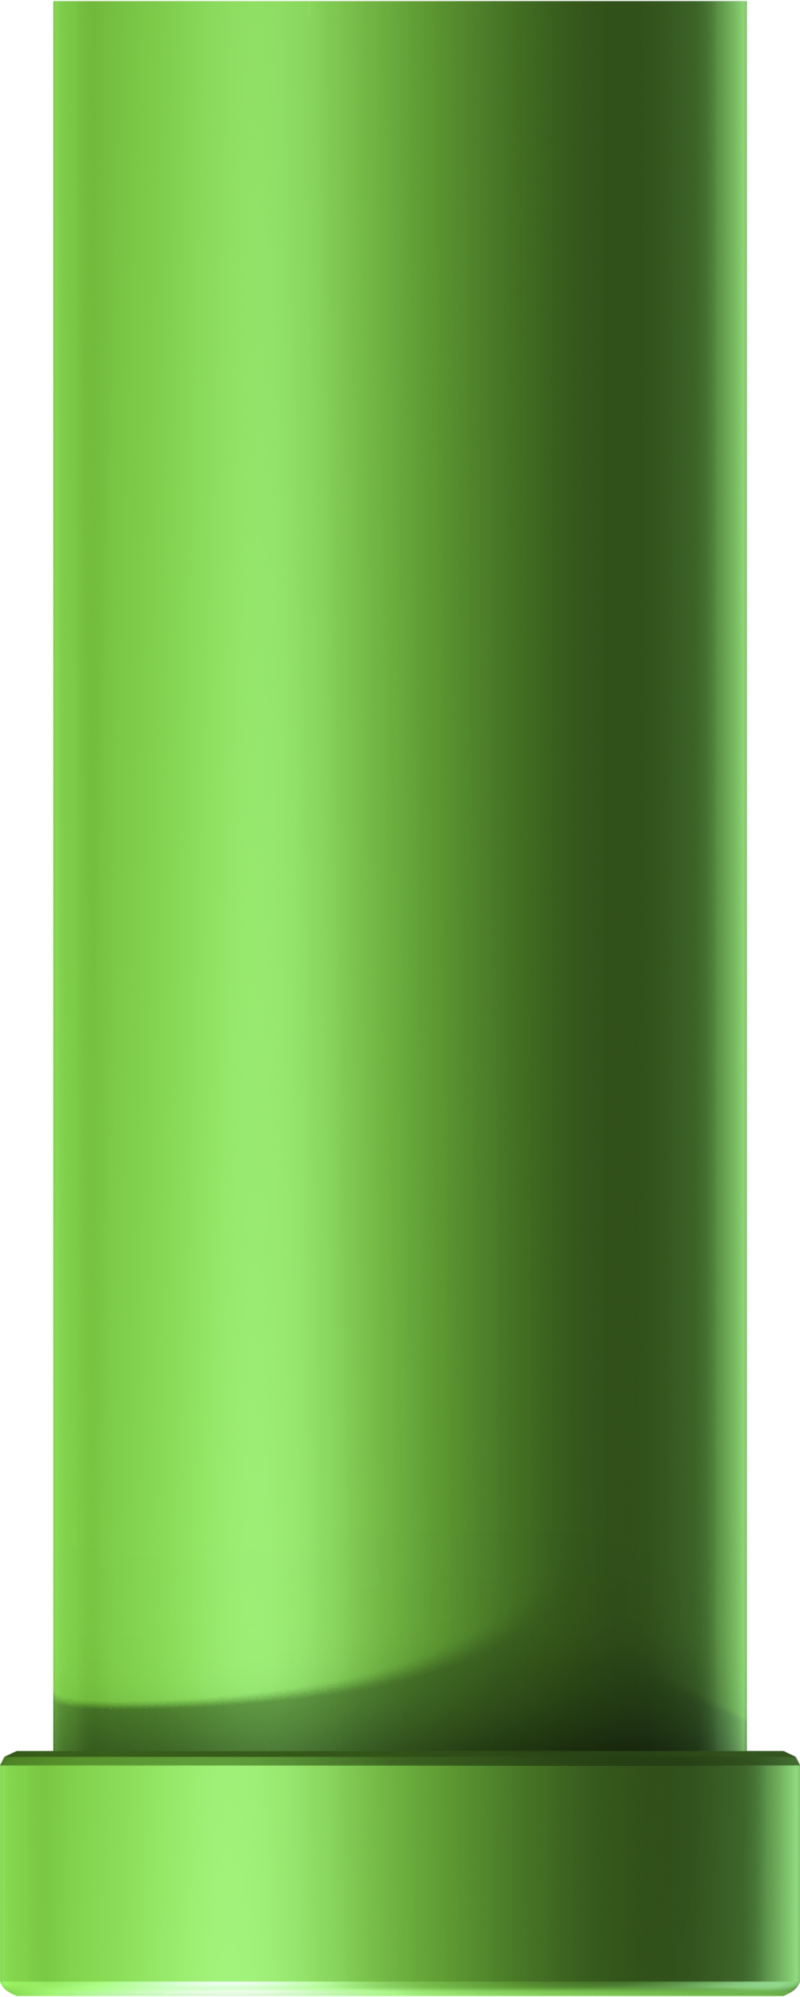
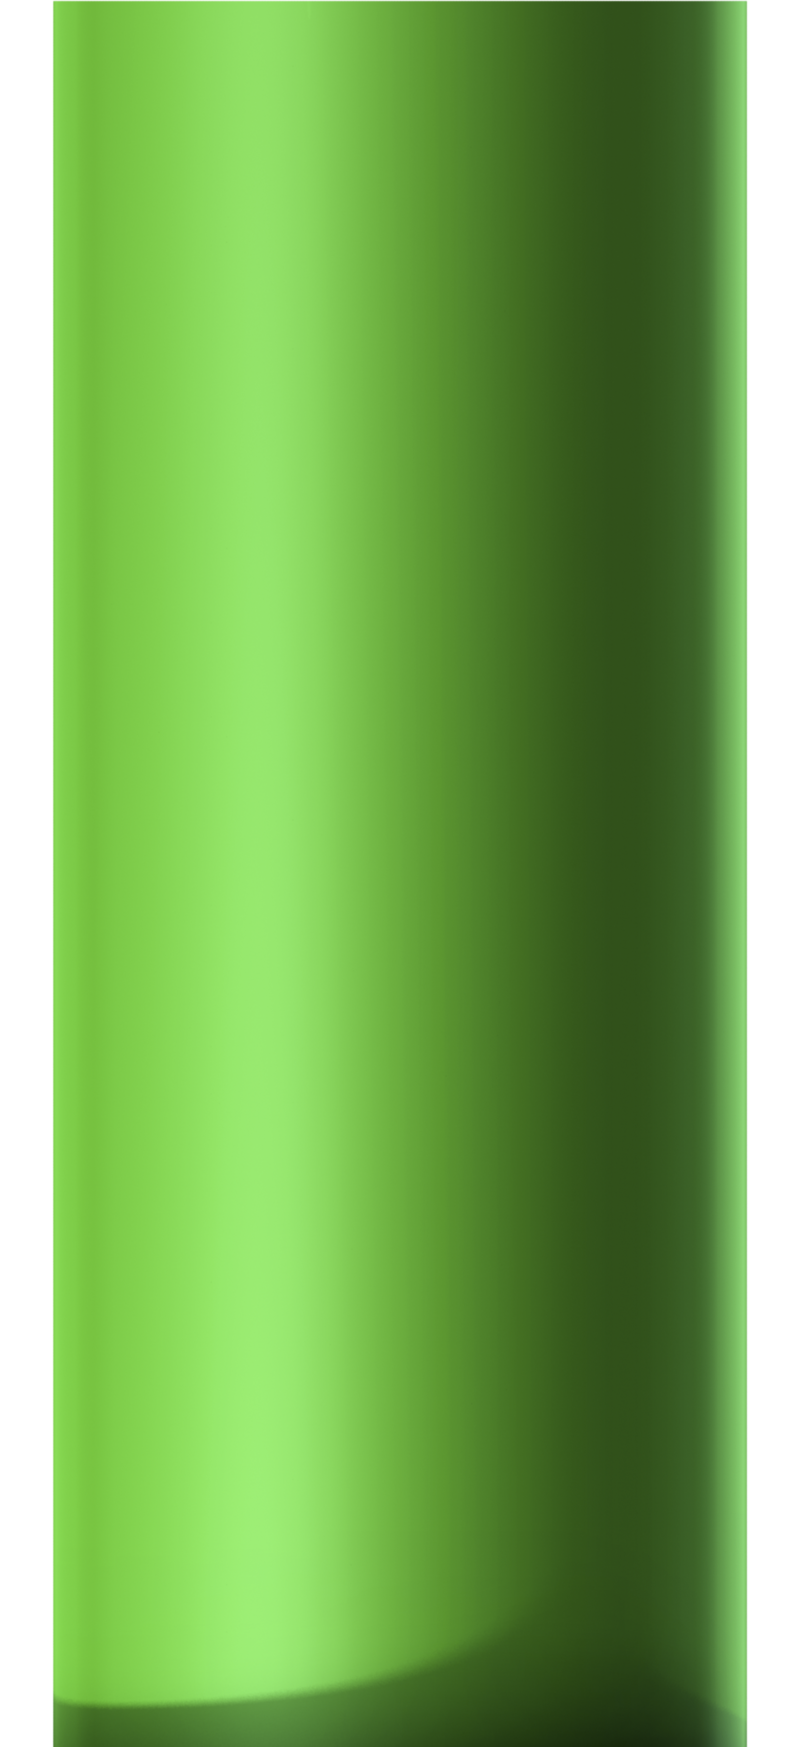
modifica css e spray

Changed region(s): [[0.0, 0.0, 1.0, 1.0]]

diff --git a/src/routes/game/+page.svelte b/src/routes/game/+page.svelte
@@ -6,7 +6,13 @@
   let gameOver = false;
   let birdY = 50; // centro verticale
   let birdVelocity = 0;
-  const gravity = 0.5;
+  const birdX = 20; // percentuale orizzontale dove si trova l'uccello
+  const birdHeight = 8; // larghezza stimata dell’uccello in percentuale
+
+  let container:HTMLButtonElement
+  let bird:HTMLDivElement
+
+  const gravity = 0.60;
   const jumpForce = -4;
   let score = 0;
 
@@ -25,9 +31,9 @@
     // genera 3 tubi distanziati
     pipes = [];
     for (let i = 0; i < 3; i++) {
-      const top = Math.floor(Math.random() * 30) + 10;
-      const bottom = 100 - top - 20; // gap 20%
-      pipes.push({ x: 100 + i * 50, top, bottom });
+      const top = Math.floor(Math.random() * 40) + 10;
+      const bottom = 100 - top - 40; // gap 20%
+      pipes.push({ x: 100 + i * 41, top, bottom });
     }
 
     interval = setInterval(() => {
@@ -35,27 +41,41 @@
       birdY += birdVelocity;
 
       // muovi e ricicla i tubi
-      pipes = pipes.map(pipe => {
+      pipes = pipes.map((pipe, index) => {
         let newX = pipe.x - 1;
         if (newX < -10) {
-          // ricrea il tubo in fondo con nuove altezze
-          const top = Math.floor(Math.random() * 30) + 10;
-          const bottom = 100 - top - 20;
+          const lastPipeX = Math.max(...pipes.map(p => p.x));
+          const spacing = 50; // distanza orizzontale tra i tubi in percentuale
+          const top = Math.floor(Math.random() * 40) + 10;
+          const bottom = 100 - top - 40;
           score++;
-          return { x: 140, top, bottom };
+          return { x: lastPipeX + spacing, top, bottom };
         }
         return { ...pipe, x: newX };
       });
 
+
       // collisione con tubi
-      for (const pipe of pipes) {
-        if (pipe.x < 23 && pipe.x > 17) {
-          // siamo all'incirca in corrispondenza dell'uccello
-          if (birdY < pipe.top || birdY > 100 - pipe.bottom) {
-            endGame();
-          }
+    for (const pipe of pipes) {
+      let container_width = container.getBoundingClientRect().width;
+      let width = bird.getBoundingClientRect().width
+      let width_percentage = (width * 100)/container_width;
+      const pipeWidth = 10; // anche i tubi sono larghi 10%
+      const birdLeft = birdX;
+      const birdRight = birdX + width_percentage;
+
+      const pipeLeft = pipe.x;
+      const pipeRight = pipe.x + pipeWidth;
+
+      const overlapsHorizontally = birdRight >= pipeLeft && birdLeft <= pipeRight;
+
+      if (overlapsHorizontally) {
+        if (birdY <= pipe.top || birdY + birdHeight >= pipe.top + 40) {
+          endGame();
         }
       }
+    }
+
 
       // fuori schermo
       if (birdY > 100 || birdY < 0) {
@@ -80,24 +100,37 @@
   }
 
   onMount(() => {
-    window.addEventListener('keydown', e => {
-      if (e.code === 'Space') {
-        flap();
-      }
-    });
-    return () => window.removeEventListener('keydown', flap);
-  });
+  const handleKey = (e: KeyboardEvent) => {
+    if (e.code === 'Space') {
+      flap();
+    }
+  };
+  window.addEventListener('keydown', handleKey);
+  return () => window.removeEventListener('keydown', handleKey);
+});
+
 </script>
 
-<button class="w-full h-full relative hover:cursor-pointer bg-sky-300 overflow-hidden" onclick={flap}>
-  <div class="absolute top-[1%] bottom-[5%] text-[100%] text-white text-shadow-lg/200 font-bold left-[1%]">Score: {score}</div>
-  <div class="absolute left-[20%] h-[10%] aspect-square" style="top: {birdY}%;">
-    <img alt="flappy bird" src="/img/uccellazzo.png" class="w-full h-full object-contain">
+<button bind:this={container} class="w-full h-full relative hover:cursor-pointer bg-sky-300 overflow-hidden" onclick={flap}>
+  <div class="absolute top-[1%] bottom-[5%] text-[100%] text-white text-shadow-lg/200 font-bold left-[49%]">Score: {score}</div>
+  <div
+    bind:this={bird}
+    class="absolute transition-all duration-[30ms] w-fit"
+    style="top: {birdY}%; left: {birdX}%; height: {birdHeight}%"
+  >
+    <img
+      alt="flappy bird"
+      src="/img/uccellazzo.png"
+      class="w-full h-full object-contain"
+    />
   </div>
+
   {#each pipes as pipe (pipe.x)}
     <Tubo {pipe} />
   {/each}
   {#if gameOver}
-    <div class="absolute top-[40%] left-[40%] text-[300%] text-red-500 font-bold">GAME OVER</div>
+    <div class="absolute top-[40%] left-[50%] translate-x-[-50%] 2xl:text-6xl xl:text-5xl lg:text-4xl text-lg text-red-500 font-extrabold drop-shadow-md text-center">
+      GAME OVER
+    </div>
   {/if}
 </button>

diff --git a/src/lib/Tubo.svelte b/src/lib/Tubo.svelte
@@ -2,46 +2,40 @@
   export let pipe: { x: number; top: number; bottom: number };
 </script>
 
-<style>
-  .tubo-wrapper {
-    position: absolute;
-    top: 0;
-    bottom: 0;
-    width: 10vw;
-    display: flex;
-    flex-direction: column;
-    justify-content: space-between;
-    pointer-events: none;
-  }
-  .tubo-section {
-    position: relative;
-    width: 100%;
-    overflow: hidden;
-  }
-  .tubo-section img {
-    position: absolute;
-    bottom: 0;
-    width: 100%;
-    height: auto;
-  }
-  .tubo-section.top {
-    height: var(--top-height);
-  }
-  .tubo-section.bottom {
-    height: var(--bottom-height);
-    display: flex;
-    align-items: flex-end;
-  }
-</style>
-
 <div
-  class="tubo-wrapper"
-  style="left: {pipe.x}%; --top-height: {pipe.top}%; --bottom-height: {pipe.bottom}%;"
+  class="transition-all duration-[30ms] absolute top-0 bottom-0 w-[10%] h-full flex flex-col pointer-events-none justify-between"
+  style="left: {pipe.x}%;"
 >
-  <div class="tubo-section top">
-    <img src="/img/tubo_180.png" alt="tubo superiore" />
+  <!-- TUBO SUPERIORE (rovesciato) -->
+  <div class="w-full relative flex flex-col" style="height: {pipe.top}%;">
+    <img
+      src="/img/tubo_180.png"
+      alt="tubo superiore"
+      class="w-full"
+      style="height: {100-(5 / pipe.top * 100)}%;"
+    />
+    <img 
+      src="/img/tappo_180.png" 
+      alt="tappo sopra"
+      class="w-full"
+      style="height: {5 / pipe.top * 100}%;"
+    />
   </div>
-  <div class="tubo-section bottom">
-    <img src="/img/tubo.png" alt="tubo inferiore" />
+
+  <!-- TUBO INFERIORE -->
+  <div class="w-full relative flex flex-col" style="height: {pipe.bottom}%;"> 
+    <img 
+      src="/img/tappo.png" 
+      alt="tappo sotto"
+      class="w-full"
+      style="height: : {5 / (pipe.bottom) * 100}%;;"
+    />
+    <img
+      src="/img/tubo.png"
+      alt="tubo inferiore"
+      class="w-full"
+      style="height: {100-(5 / (pipe.bottom) * 100)}%;"
+    />
+    
   </div>
 </div>
